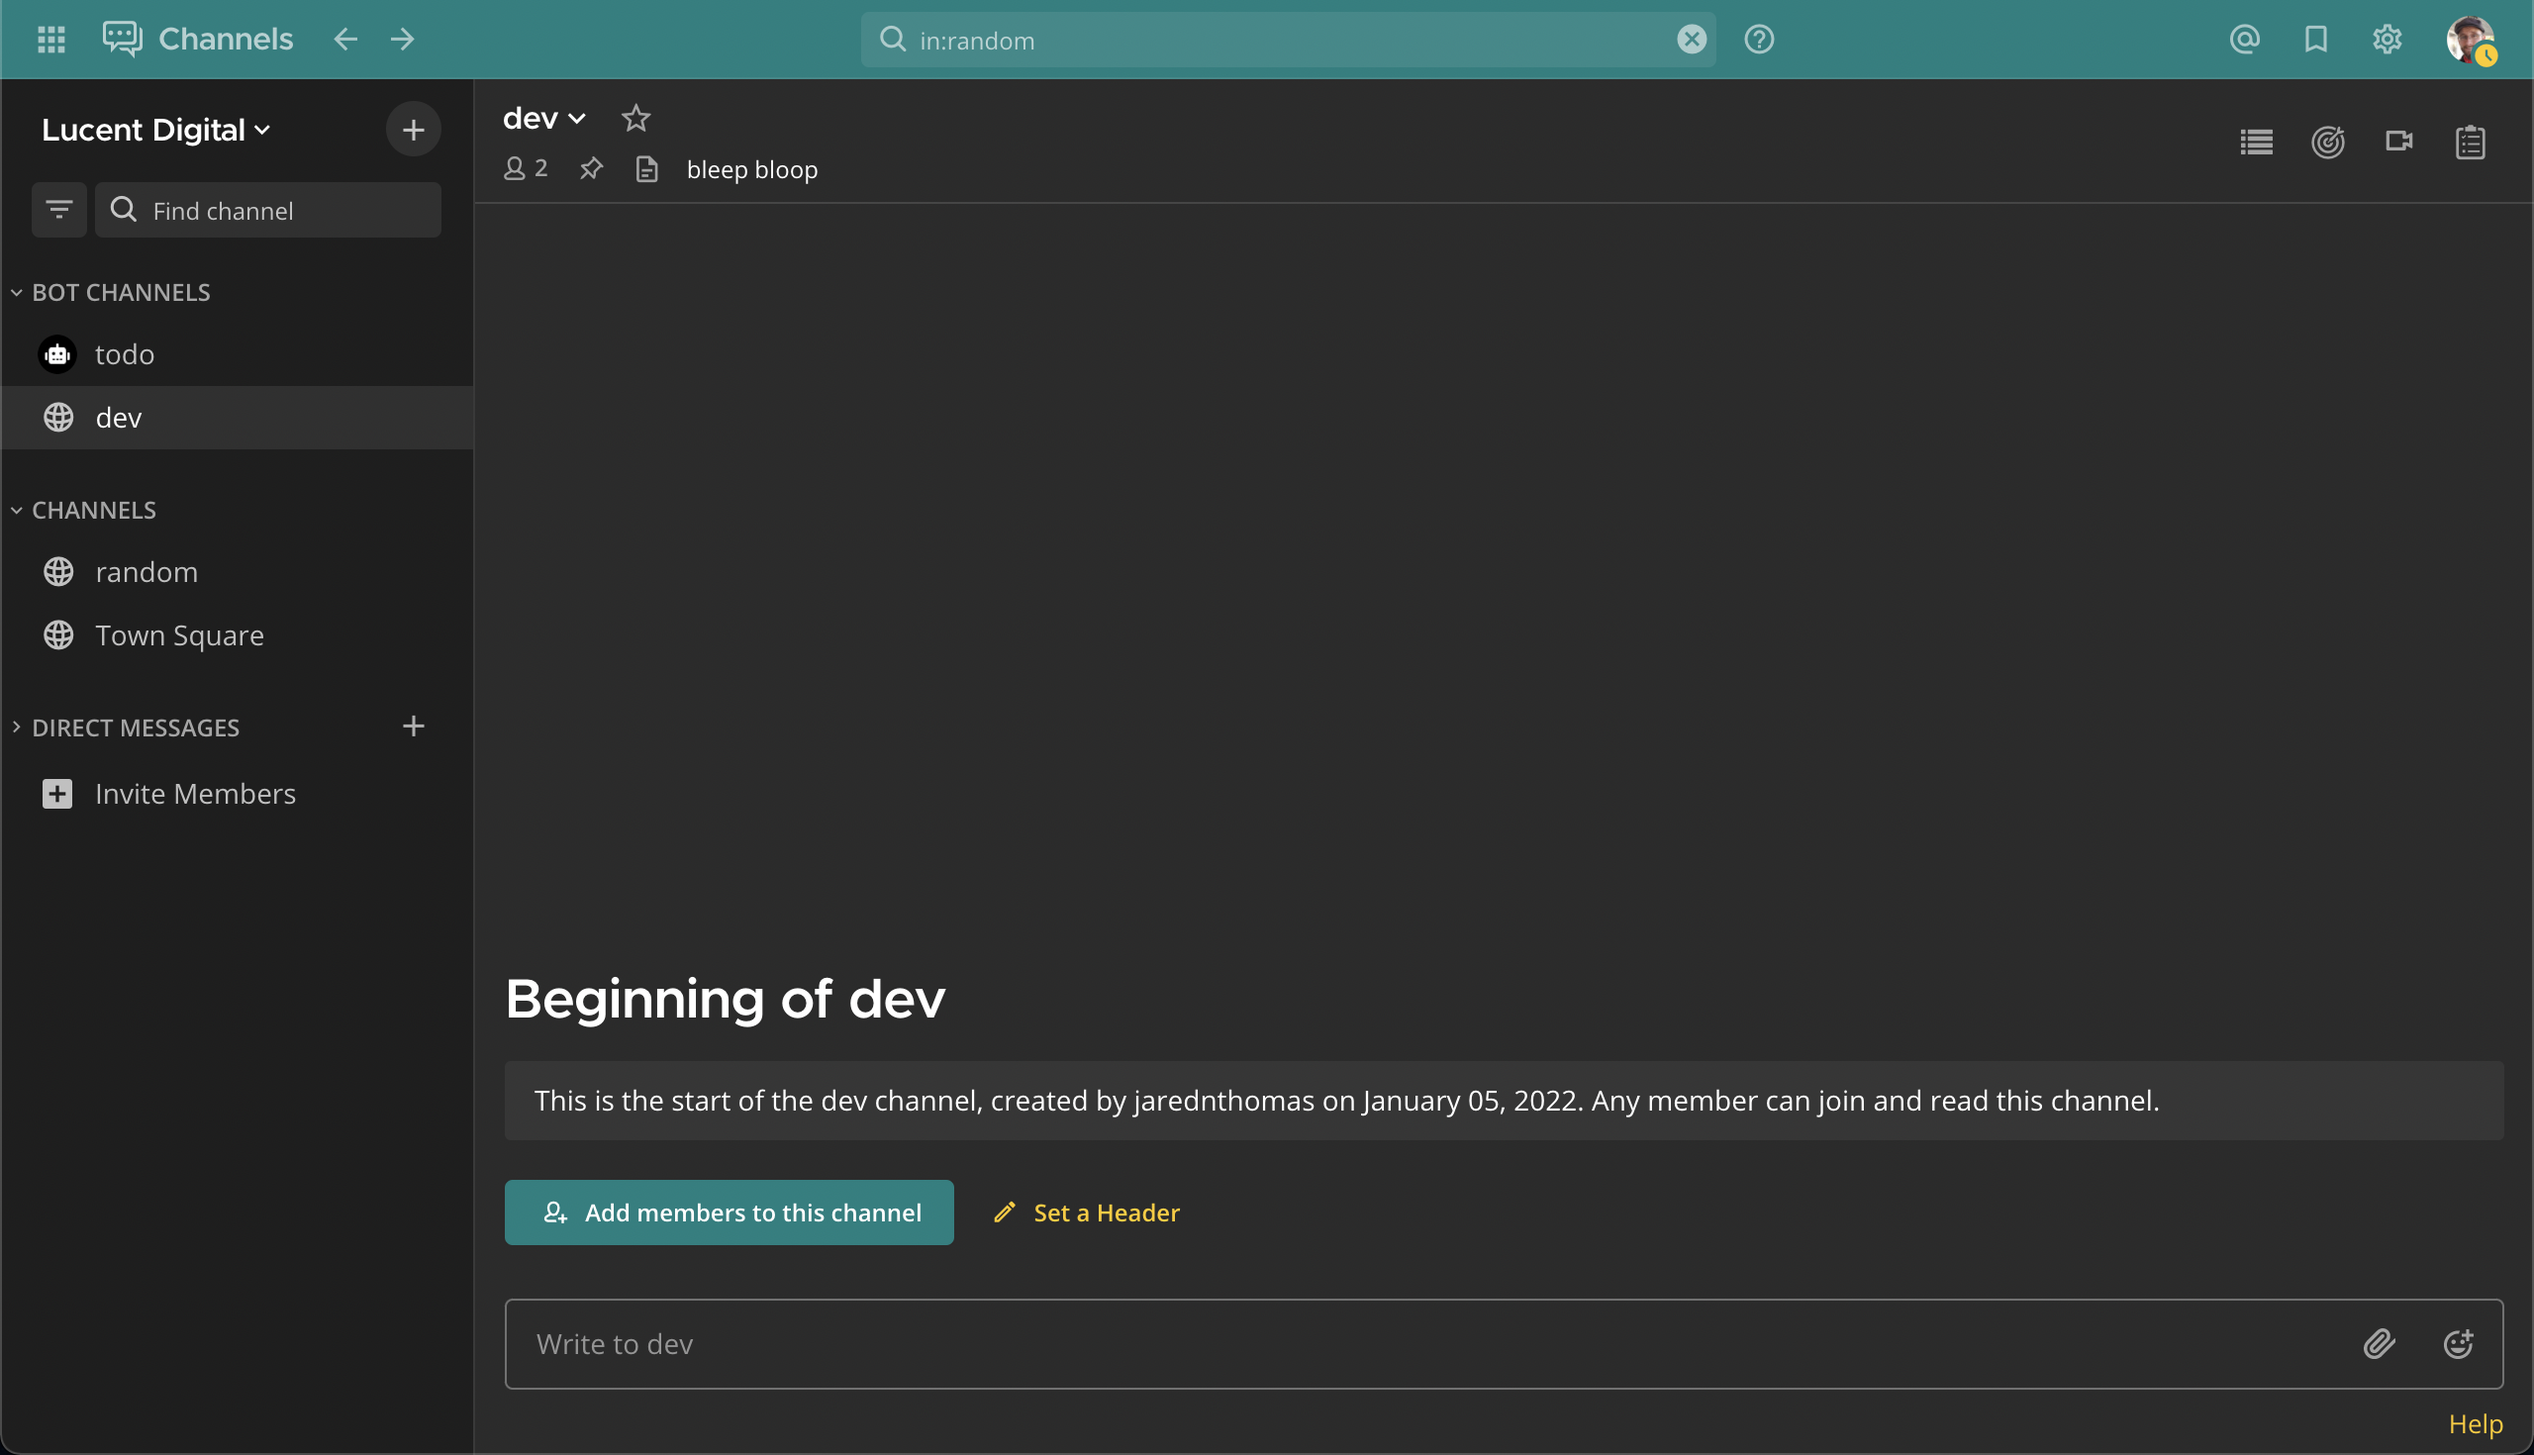
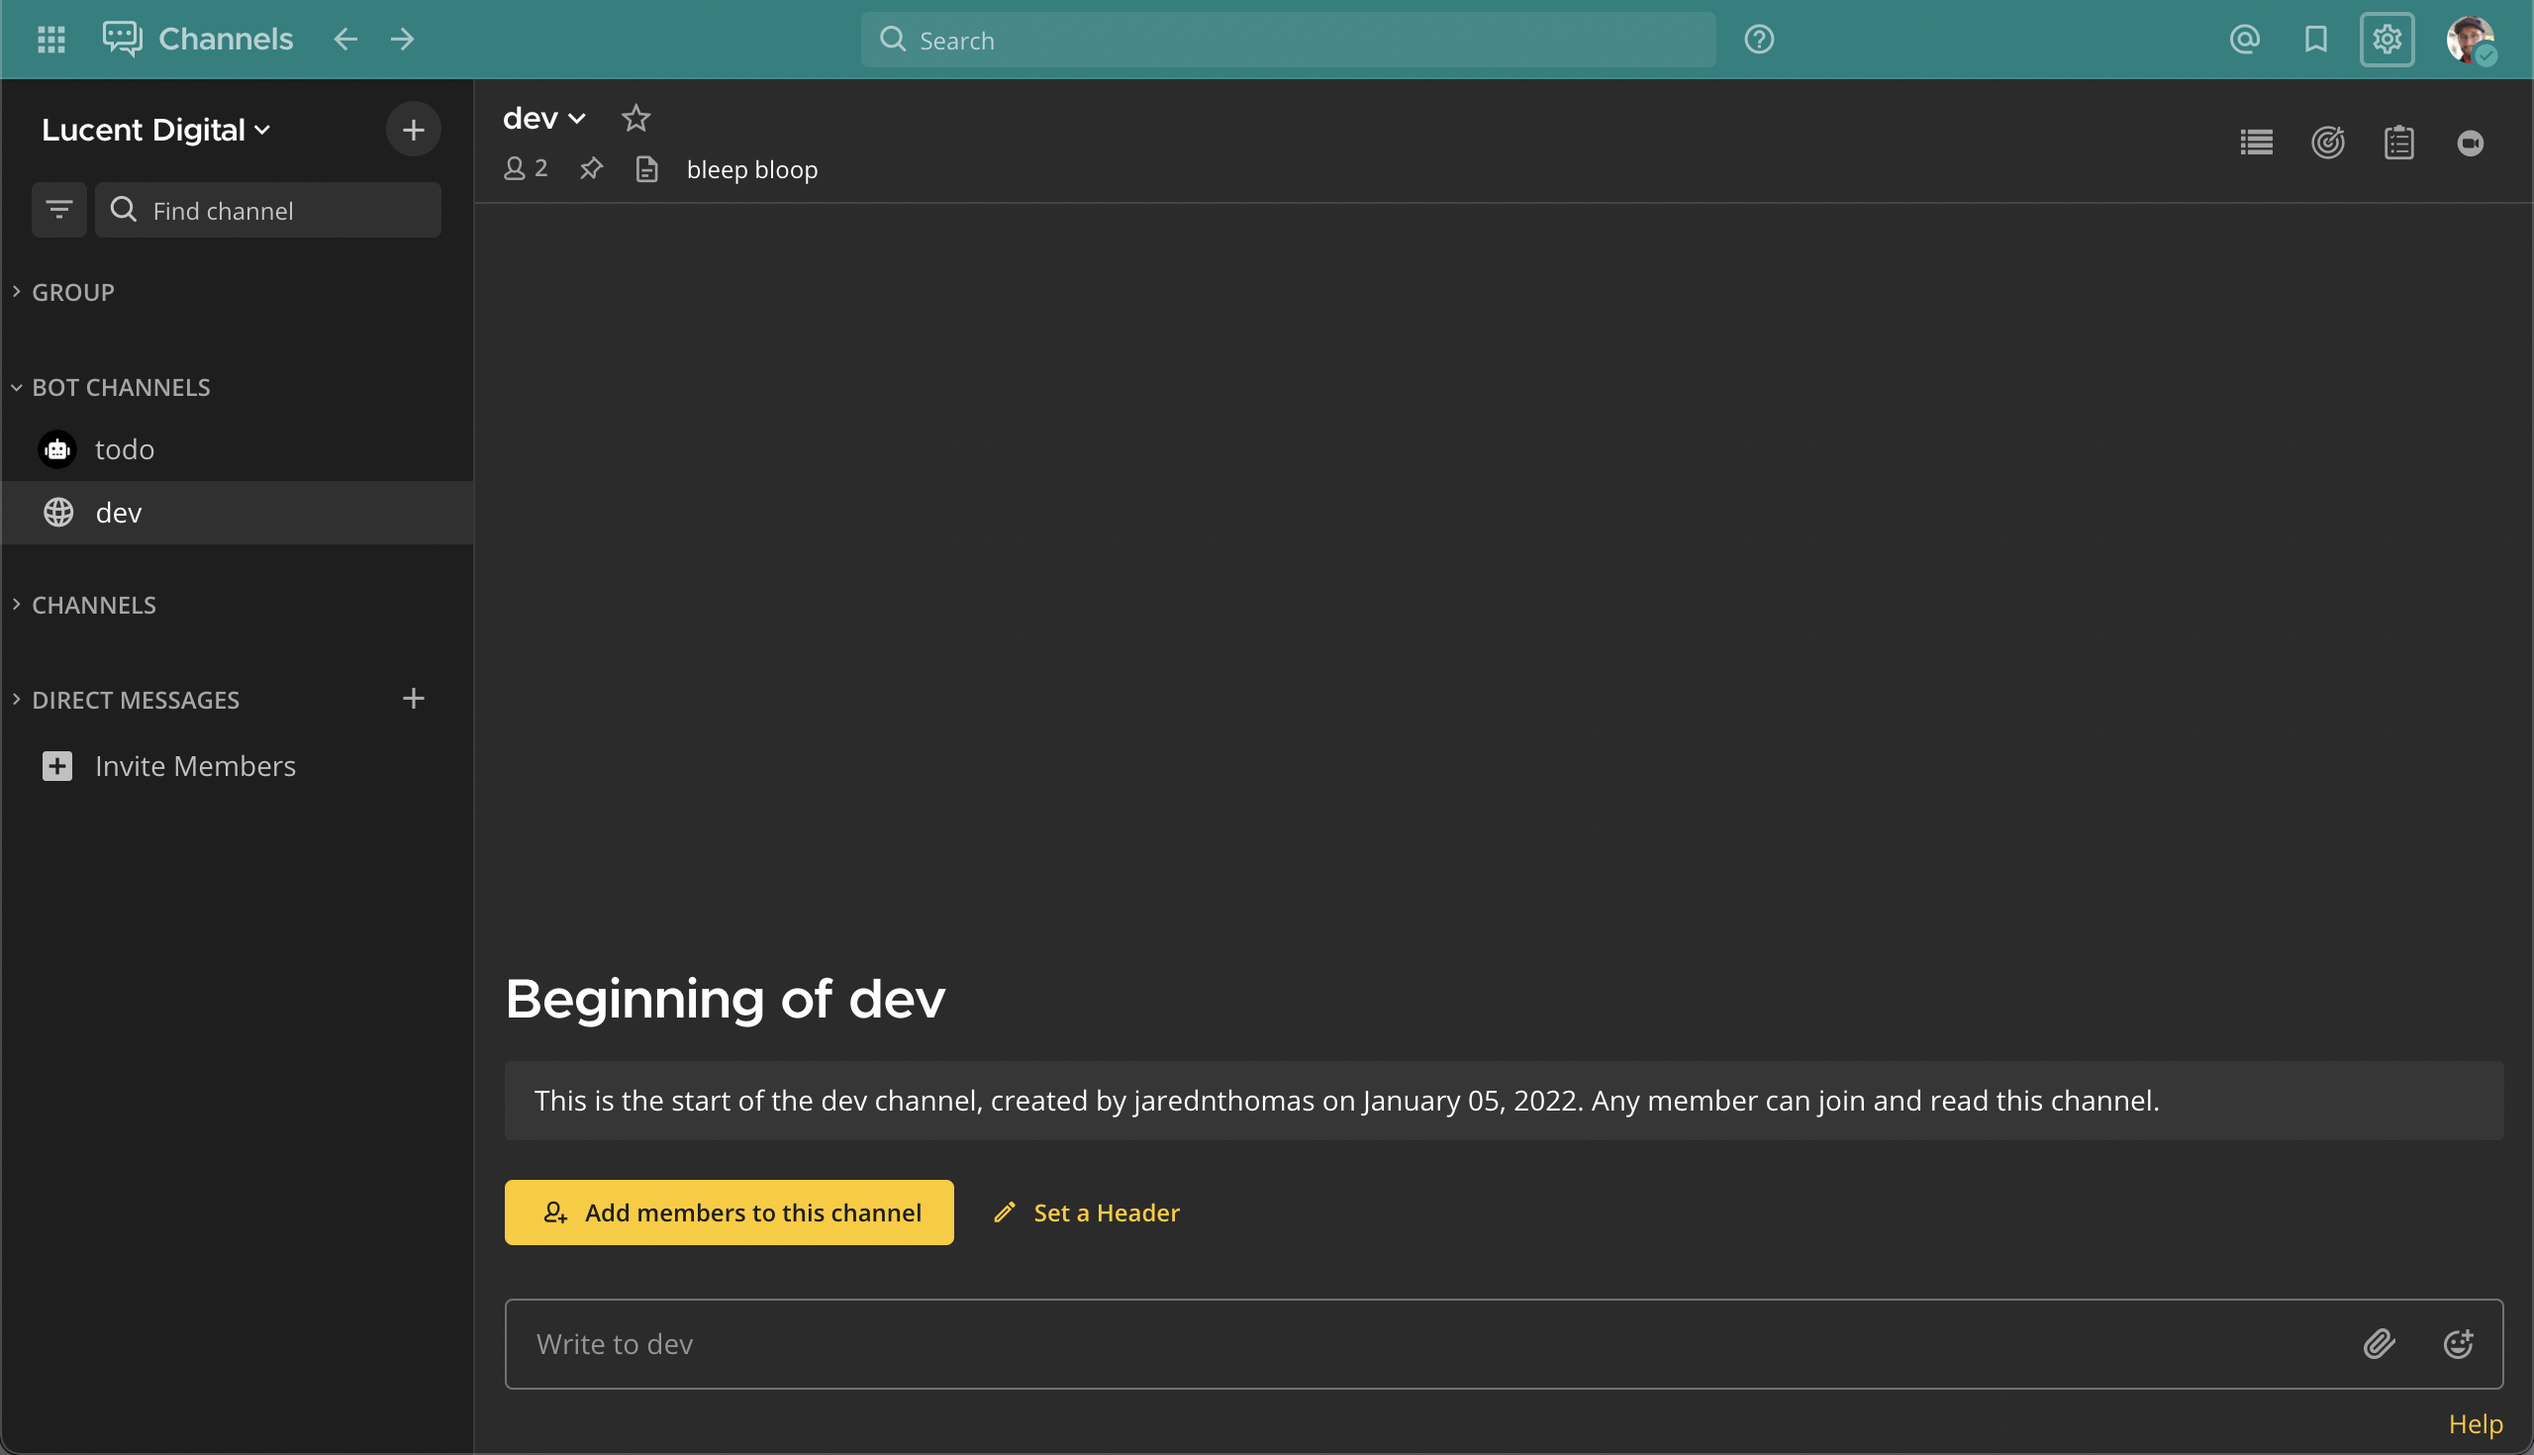
minor changes to lucent-dark

diff --git a/README.md b/README.md
@@ -203,7 +203,7 @@
 "buttonBg":"#ffca05",
 "buttonColor":"#1e1e1e",
 "newMessageSeparator":"#ffca05",
-"onlineIndicator":"#008080",
+"onlineIndicator":"#3aadaa",
 "awayIndicator":"#FFCA04",
 "dndIndicator":"#fc3d03",
 "linkColor":"#FFCA05",
